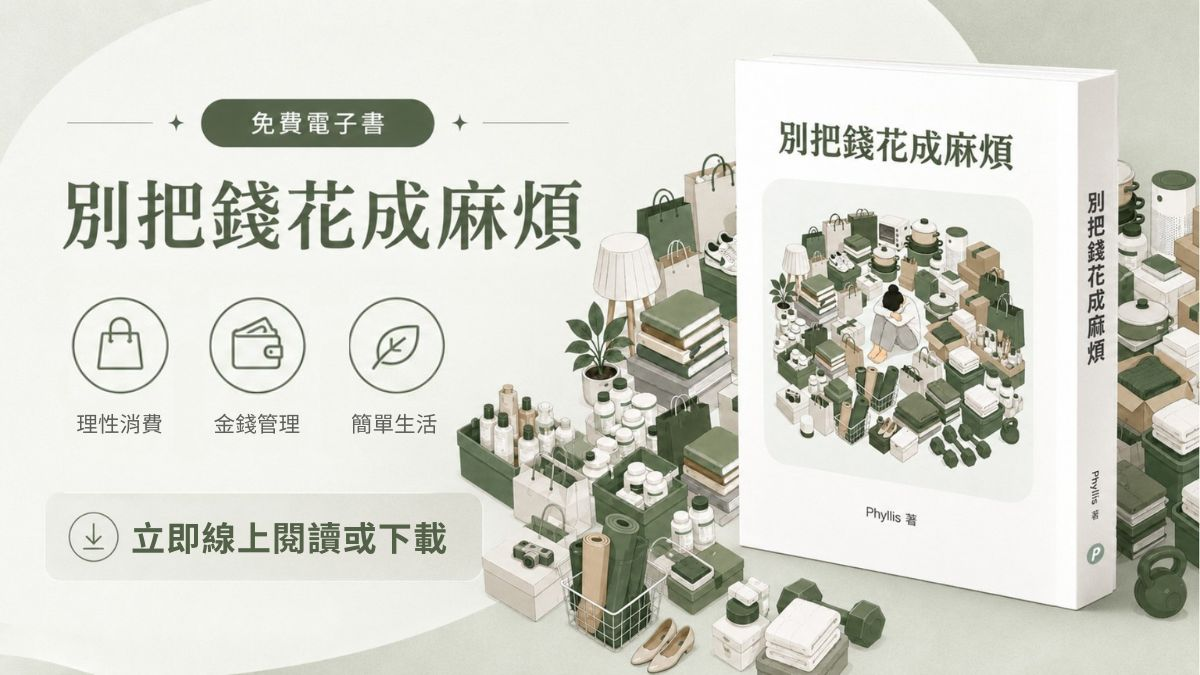
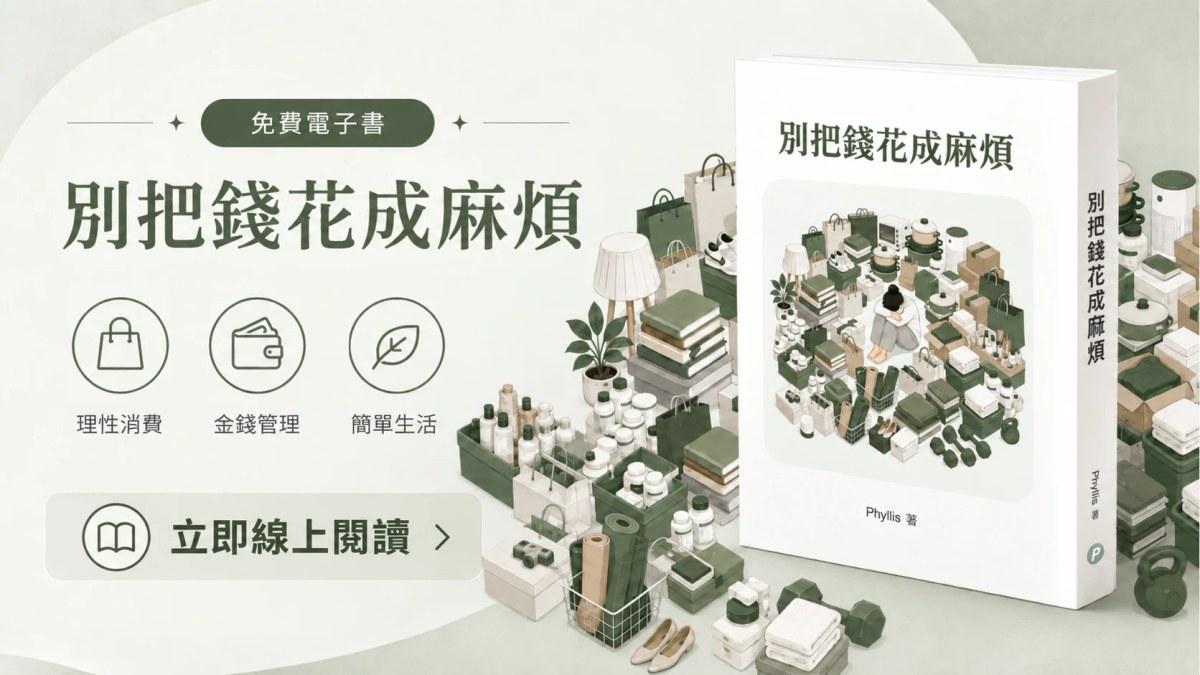
首頁精選電子書主圖改版
不再提供 PDF 下載，主圖上的「立即線上閱讀或下載」改為「立即線上閱讀」，
並換成與另一張精選卡片一致的灰綠色系。維持 1200x675，兩張卡片等高。

diff --git a/index.html b/index.html
@@ -64,7 +64,7 @@
         </div>
       </div>
       <div class="card feature-card">
-        <div class="feature-cover"><img src="/assets/feature-ebook.jpg?v=f6945cef" alt="免費電子書《別把錢花成麻煩》" loading="lazy"></div>
+        <div class="feature-cover"><img src="/assets/feature-ebook.jpg?v=6de18858" alt="免費電子書《別把錢花成麻煩》" loading="lazy"></div>
         <div class="feature-body">
           <h3>免費電子書《別把錢花成麻煩》</h3>
           <p>從每天怎麼花錢出發，帶你看懂消費如何變成雜物與麻煩，也重新檢查哪些支出真的值得。</p>
